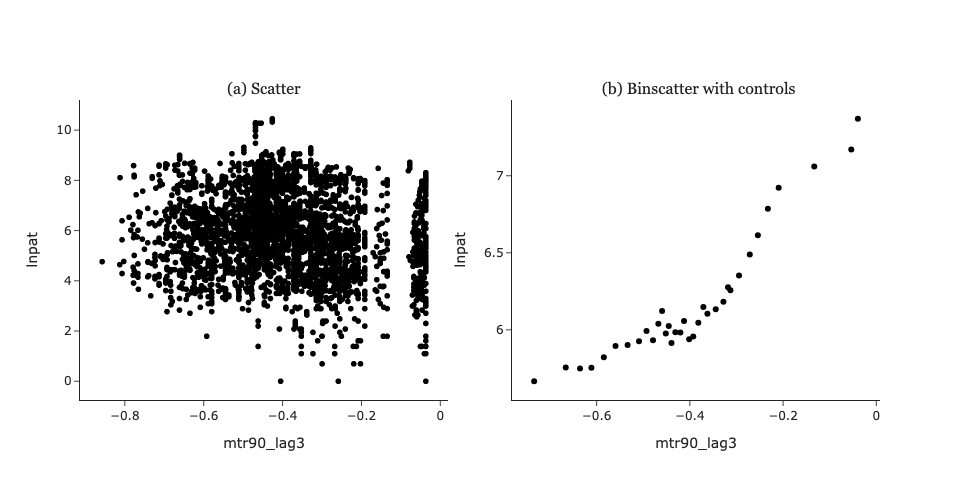
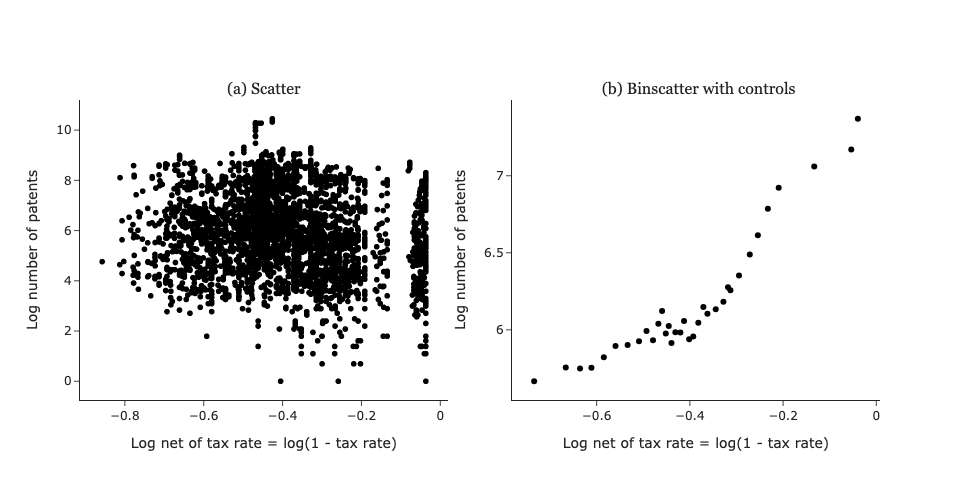
Fix error in x axis title due to VERY confusing variable titling (#38)

diff --git a/scripts/replicate_binscatter/make_plots.py b/scripts/replicate_binscatter/make_plots.py
@@ -63,7 +63,7 @@ df = pl.read_parquet(parquet_path)
 df.describe()
 # %%
 axis_labels = {
-    "x": "Top marginal tax rate (lagged 3 years)",
+    "x": "Log net of tax rate := log(1 - tax rate)",
     "y": "Log number of patents",
 }
 p_scatter = px.scatter(

diff --git a/README.md b/README.md
@@ -24,7 +24,7 @@ pip install binscatter
 
 ## Example
 
-A binscatter plot showing patenting activity against the 3-year lagged top marginal tax rate controlling for several state-level covariates.
+A binscatter plot showing patenting activity against the 3-year net of tax rate controlling for several state-level covariates.
 
 <img src="images/readme/binscatter_controls.png" alt="Scatter and binscatter" width="640" />
 
@@ -48,7 +48,7 @@ binscatter(
     # num_bins="rule-of-thumb",  # optional: let the selector choose the bin count
     # return_type="native",  # optional: get the aggregated dataframe instead of a Plotly figure
 ).update_layout(  # binscatter returns a Plotly figure, so you can tweak labels, colors, etc.
-    xaxis_title="Top marginal tax rate (lagged 3 years)",
+    xaxis_title="Log net of tax rate := log(1 - tax rate)",
     yaxis_title="Log number of patents",
 )
 ```
